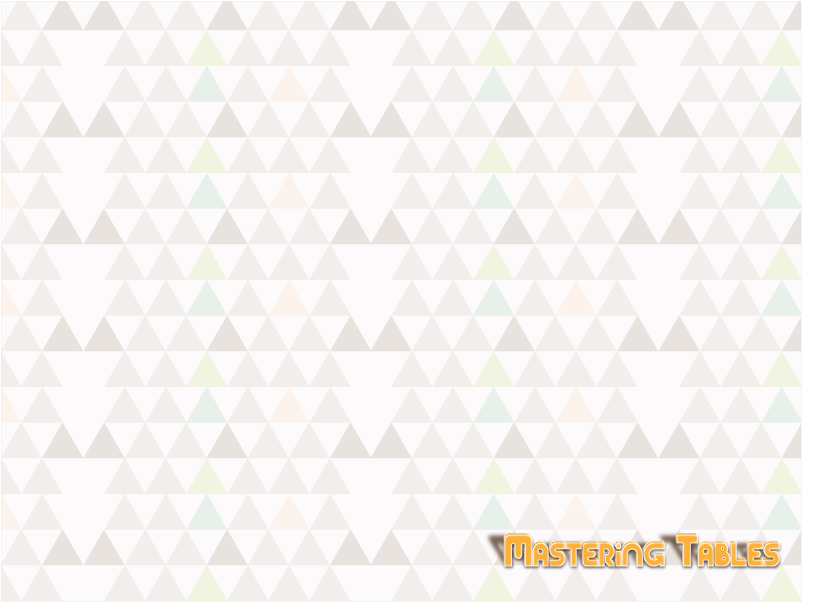
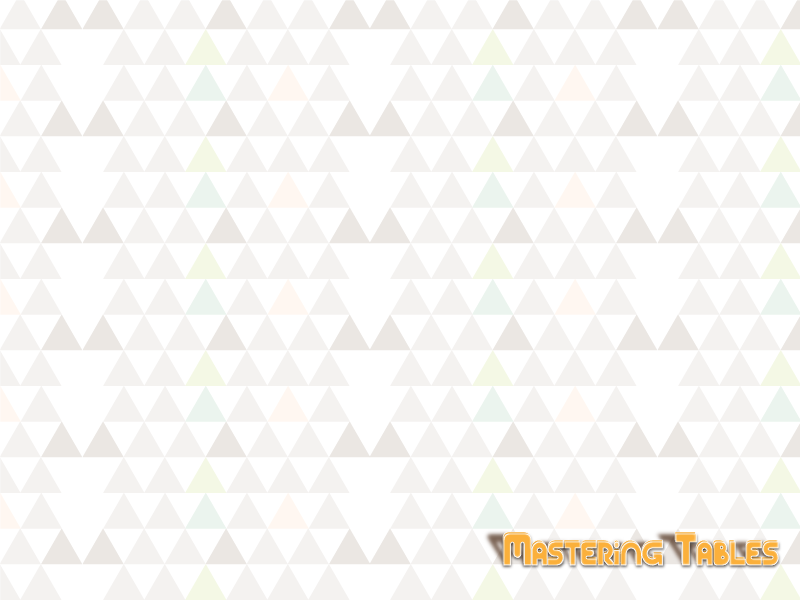
Fix backgrounds insets

diff --git a/org.jrebirth.demo.masteringtables/src/main/resources/style/mt.css b/org.jrebirth.demo.masteringtables/src/main/resources/style/mt.css
@@ -3,7 +3,7 @@
 /********************************************************************/
 
 #SplashPanel{
-	-fx-background-image: url("../image/Splash.png");
+	-fx-background-image: url("../image/Splash_Background.png");
 	-fx-background-position: center;
 	-fx-background-size: stretch;
 	-fx-background-repeat: no-repeat ;

diff --git a/org.jrebirth.demo.masteringtables/src/main/java/org/jrebirth/demo/masteringtables/ui/splash/SplashView.java b/org.jrebirth.demo.masteringtables/src/main/java/org/jrebirth/demo/masteringtables/ui/splash/SplashView.java
@@ -59,7 +59,7 @@ public class SplashView extends DefaultView<SplashModel, BorderPane, DefaultCont
         final ProgressBar pb = new ProgressBar();
         pb.setMinSize(400, 40);
         BorderPane.setAlignment(pb, Pos.CENTER);
-        BorderPane.setMargin(pb, new Insets(40, 0, 40, 0));
+        BorderPane.setMargin(pb, new Insets(40, 0, 30, 0));
 
         getRootNode().setBottom(pb);
     }
